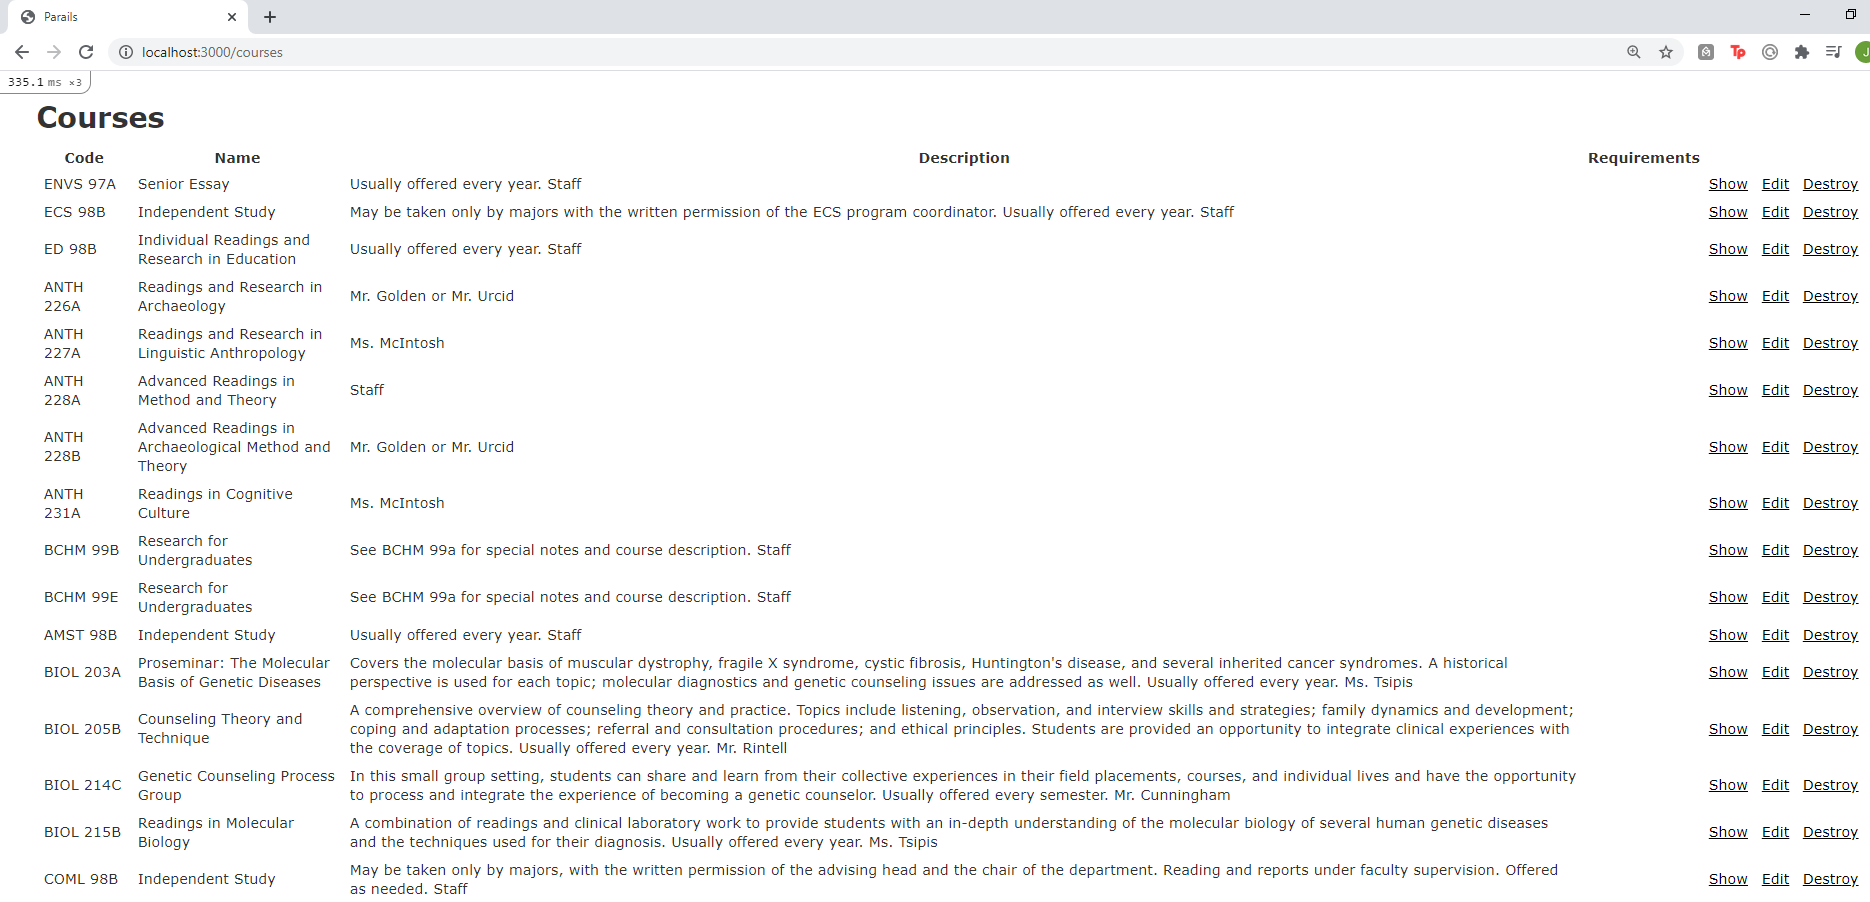
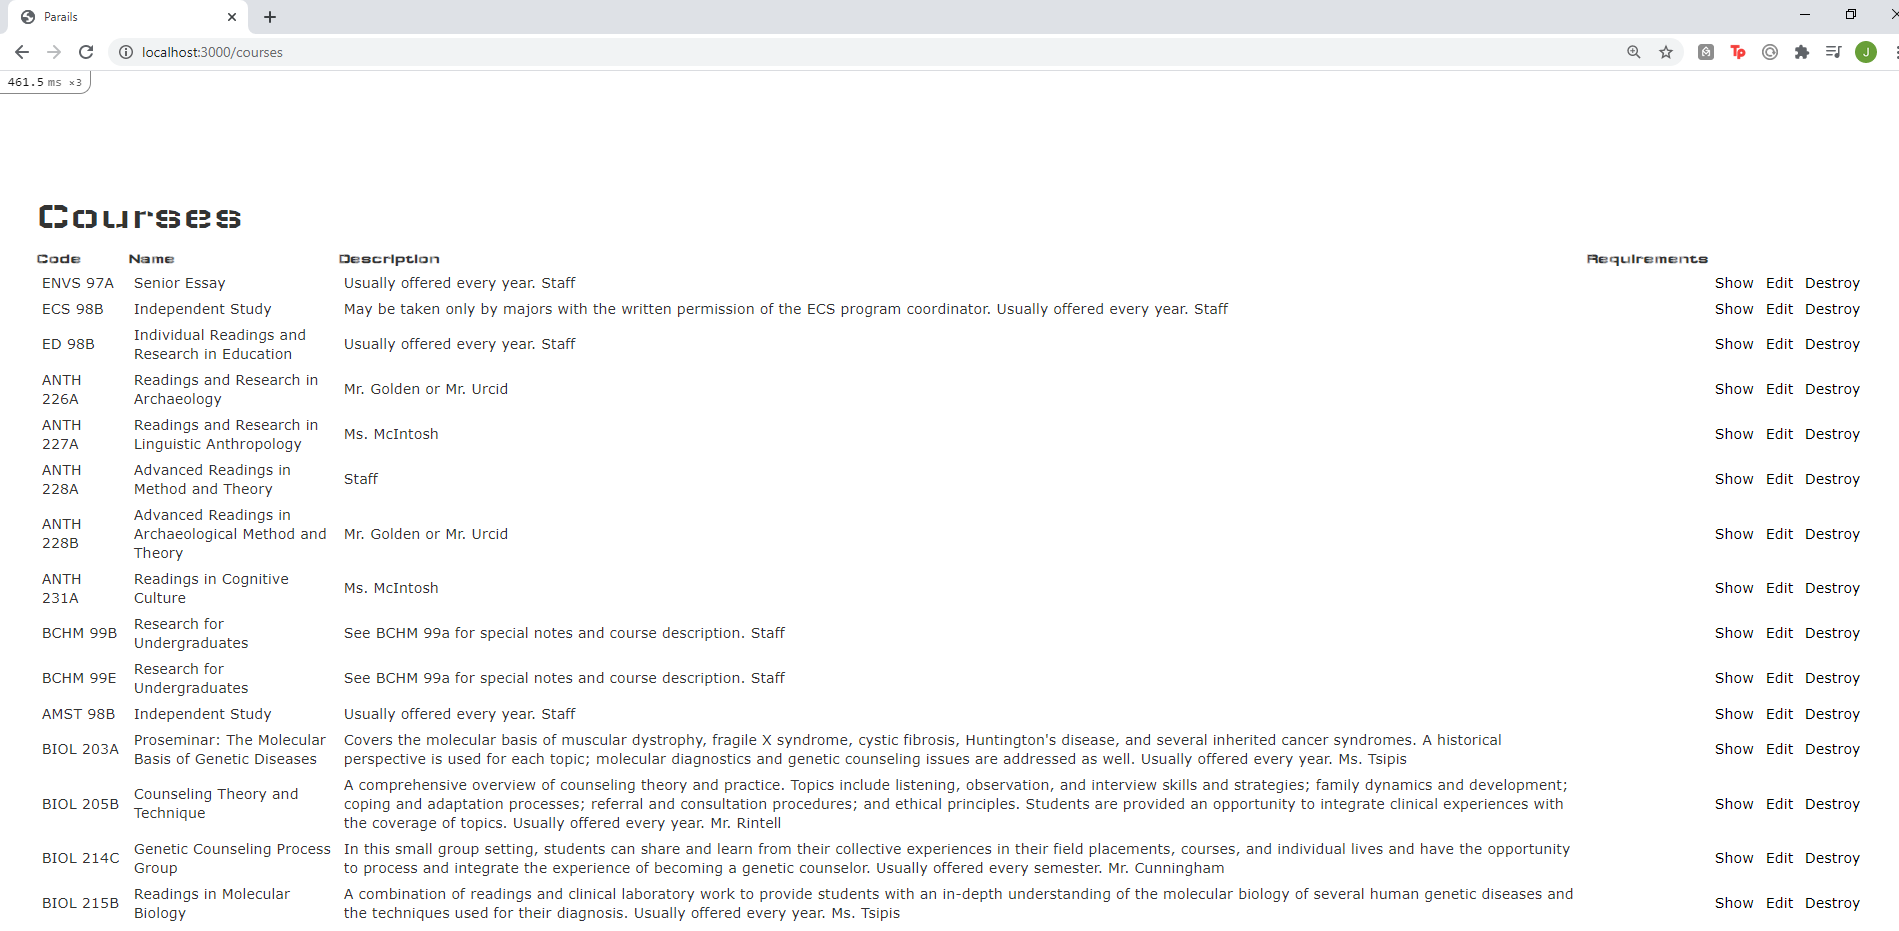
added bootstrap style

diff --git a/app/assets/stylesheets/custom.scss b/app/assets/stylesheets/custom.scss
@@ -1,0 +1,14 @@
+@import "bootstrap-sprockets";
+
+@import url("http://fonts.googleapis.com/css?family=Wallpoet:400,300,700");
+
+
+@import "bootstrap-sprockets";
+@import "bootstrap";
+
+/* universal */
+
+body {
+  padding-top: 60px;
+  font-family: 'Wallpoet', sans-serif !important;
+}

diff --git a/README.md b/README.md
@@ -1,10 +1,26 @@
 ## PA Rails 1
 
+#### Deliverables
+
 [Heroku Project Link](https://desolate-falls-68235.herokuapp.com/)
 
-Github Project Link (Private)
+[Github Project Link](https://github.com/jsmith2021Brandeis/PARails1) (Private)
 
-#### **Views**
+Note on Bootstrap:
+
+	I changed the title font to Wallpoet,see app/assets/stylesheets/custom.scss
+
+![Home](images/custom.PNG)
+
+
+
+#### Description
+
+	This project imports [data on Brandeis bourses, subjects, and instructors](http://registrar-prod-rhel6.unet.brandeis.edu/export/readme.html) into a ruby on rails app that displays the information and is deployed to Heroku.
+
+#### Views
+
+![courses](images/home.PNG)
 
 ![courses](images/courses.PNG)
 
